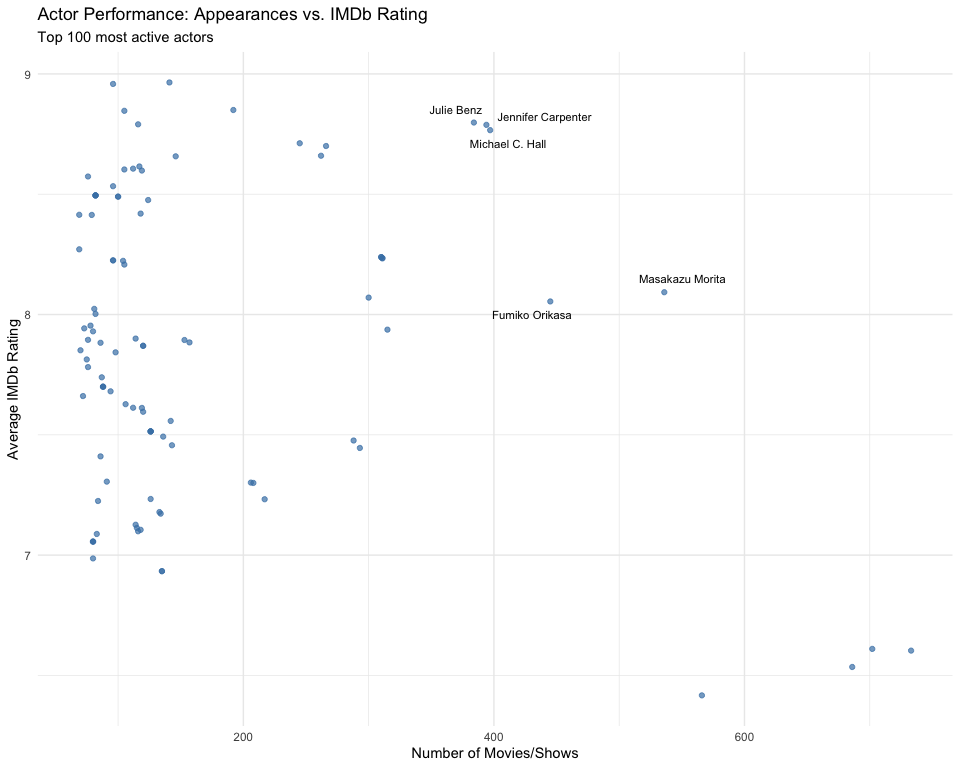
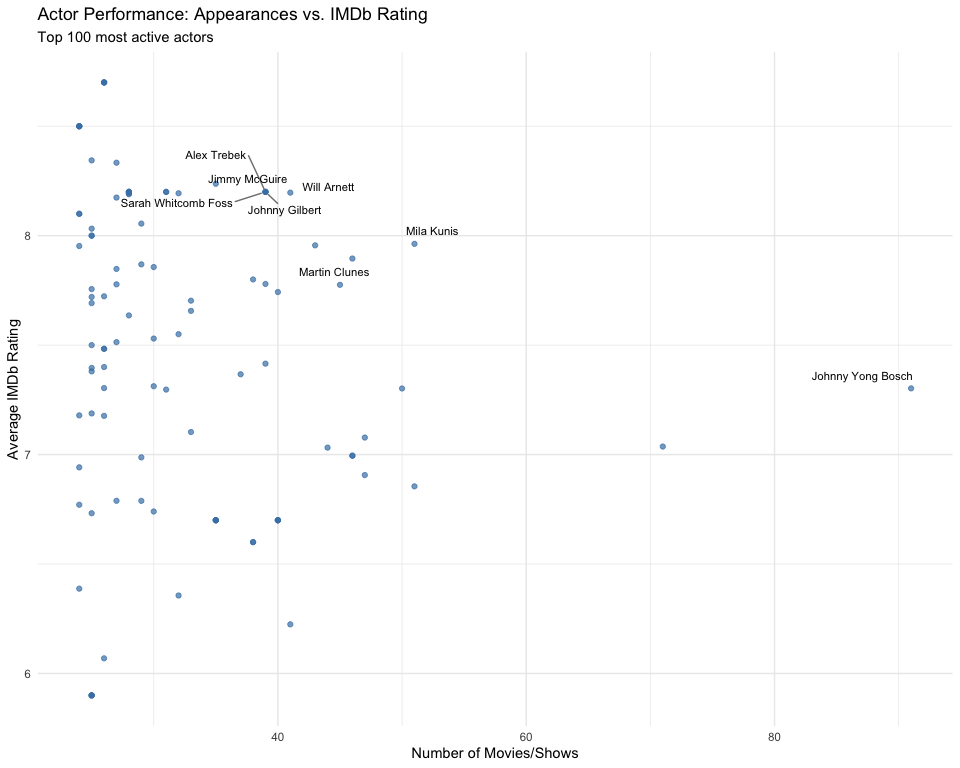
Removed redundant entries and commented on new findings.

diff --git a/Projects/Niclas38/hd25viet.md b/Projects/Niclas38/hd25viet.md
@@ -1,35 +1,10 @@
 # Load Packages
 
-    library(tidyverse)
-
-    ## ── Attaching core tidyverse packages ──────────────────────── tidyverse 2.0.0 ──
-    ## ✔ dplyr     1.1.4     ✔ readr     2.1.5
-    ## ✔ forcats   1.0.0     ✔ stringr   1.5.1
-    ## ✔ ggplot2   3.5.1     ✔ tibble    3.2.1
-    ## ✔ lubridate 1.9.4     ✔ tidyr     1.3.1
-    ## ✔ purrr     1.0.4     
-    ## ── Conflicts ────────────────────────────────────────── tidyverse_conflicts() ──
-    ## ✖ dplyr::filter() masks stats::filter()
-    ## ✖ dplyr::lag()    masks stats::lag()
-    ## ℹ Use the conflicted package (<http://conflicted.r-lib.org/>) to force all conflicts to become errors
-
-    library(readxl)
-    library(purrr)
-    library(ggrepel)
-
 # Load Data and Data Wrangling
 
-    data_raw <- read_csv("movies.csv")
+    setwd( this.path::this.dir() )
 
-    ## Rows: 9999 Columns: 9
-    ## ── Column specification ────────────────────────────────────────────────────────
-    ## Delimiter: ","
-    ## chr (6): MOVIES, YEAR, GENRE, ONE-LINE, STARS, Gross
-    ## dbl (2): RATING, RunTime
-    ## num (1): VOTES
-    ## 
-    ## ℹ Use `spec()` to retrieve the full column specification for this data.
-    ## ℹ Specify the column types or set `show_col_types = FALSE` to quiet this message.
+    data_raw <- read_csv("movies.csv")
 
     # Data Wrangling
     data_cleaned <- data_raw %>% 
@@ -38,6 +13,7 @@
         across(where(is.character), ~ str_squish(str_remove_all(., "^\\n"))),
 
         # Clean year column
+        MOVIES = as.factor(MOVIES),
         YEAR = str_squish(str_remove_all(YEAR, "[()]")),
 
         # Extract start and end years
@@ -52,10 +28,6 @@
         # Expand years as list-column (Start:End)
         Year_List = map2(Start, End, ~ if (!is.na(.x)) .x:.y else NA_integer_),
 
-        # Clean and split STARS and GENRE into list-columns
-        STARS = str_split(str_extract(STARS, "(?<=Stars: ).*"), ",\\s*"),
-        GENRE = str_split(as.factor(GENRE), ",\\s*"),
-
         # Parse votes and gross
         VOTES = as.numeric(VOTES),
         Gross = parse_number(Gross)
@@ -64,38 +36,21 @@
       select(-YEAR, -Start, -End) %>% 
       rename(YEAR = Year_List) %>% 
       select(MOVIES, GENRE, RATING, STARS, VOTES, Gross,YEAR) %>% 
-      glimpse()
-
-    ## Rows: 25,827
-    ## Columns: 7
-    ## $ MOVIES <chr> "Blood Red Sky", "Masters of the Universe: Revelation", "Master…
-    ## $ GENRE  <list> <"Action", "Horror", "Thriller">, <"Animation", "Action", "Adv…
-    ## $ RATING <dbl> 6.1, 5.0, 5.0, 8.2, 8.2, 8.2, 8.2, 8.2, 8.2, 8.2, 8.2, 8.2, 8.2…
-    ## $ STARS  <list> <"Peri Baumeister", "Carl Anton Koch", "Alexander Scheer", "Ka…
-    ## $ VOTES  <dbl> 21062, 17870, 17870, 885805, 885805, 885805, 885805, 885805, 88…
-    ## $ Gross  <dbl> NA, NA, NA, NA, NA, NA, NA, NA, NA, NA, NA, NA, NA, NA, NA, NA,…
-    ## $ YEAR   <int> 2021, 2021, 2022, 2010, 2011, 2012, 2013, 2014, 2015, 2016, 201…
-
-    # Consistency Check
-    data_cleaned %>% 
-      filter(MOVIES=="The Walking Dead")
-
-    ## # A tibble: 13 × 7
-    ##    MOVIES           GENRE     RATING STARS      VOTES Gross  YEAR
-    ##    <chr>            <list>     <dbl> <list>     <dbl> <dbl> <int>
-    ##  1 The Walking Dead <chr [3]>    8.2 <chr [4]> 885805    NA  2010
-    ##  2 The Walking Dead <chr [3]>    8.2 <chr [4]> 885805    NA  2011
-    ##  3 The Walking Dead <chr [3]>    8.2 <chr [4]> 885805    NA  2012
-    ##  4 The Walking Dead <chr [3]>    8.2 <chr [4]> 885805    NA  2013
-    ##  5 The Walking Dead <chr [3]>    8.2 <chr [4]> 885805    NA  2014
-    ##  6 The Walking Dead <chr [3]>    8.2 <chr [4]> 885805    NA  2015
-    ##  7 The Walking Dead <chr [3]>    8.2 <chr [4]> 885805    NA  2016
-    ##  8 The Walking Dead <chr [3]>    8.2 <chr [4]> 885805    NA  2017
-    ##  9 The Walking Dead <chr [3]>    8.2 <chr [4]> 885805    NA  2018
-    ## 10 The Walking Dead <chr [3]>    8.2 <chr [4]> 885805    NA  2019
-    ## 11 The Walking Dead <chr [3]>    8.2 <chr [4]> 885805    NA  2020
-    ## 12 The Walking Dead <chr [3]>    8.2 <chr [4]> 885805    NA  2021
-    ## 13 The Walking Dead <chr [3]>    8.2 <chr [4]> 885805    NA  2022
+      group_by(MOVIES, YEAR) %>%
+      # Merge duplicated movie entries
+      summarize(
+        RATING = mean(RATING, na.rm = TRUE),
+        VOTES = sum(VOTES, na.rm = TRUE),
+        GENRE = first(GENRE),           # assuming Genre is same for all
+        STARS = first(STARS),           # same logic
+        Gross = sum(Gross, na.rm = TRUE), # often NA, but sum in case
+        .groups = "drop"
+      ) %>%
+      mutate(
+            # Clean and split STARS and GENRE into list-columns
+        STARS = str_split(str_extract(STARS, "(?<=Stars: ).*"), ",\\s*"),
+        GENRE = str_split(as.factor(GENRE), ",\\s*"),
+      )
 
 # Visualization
 
@@ -179,26 +134,26 @@ about trends then the suggested plot containing all genres.
     ## # A tibble: 20 × 3
     ##    STARS                    appearances avg_rating
     ##    <chr>                          <int>      <dbl>
-    ##  1 Dietrich Hollinderbäumer          12       9.43
-    ##  2 Ian James Corlett                 15       9.3 
-    ##  3 Louis Hofmann                     44       9.24
-    ##  4 Maja Schöne                       12       9.23
-    ##  5 Andreas Pietschmann               16       9.2 
-    ##  6 Lisa Vicari                       33       9.2 
-    ##  7 Amybeth McNulty                   30       9.18
-    ##  8 Geraldine James                   30       9.18
-    ##  9 R.H. Thomson                      30       9.18
-    ## 10 Cavan Clerkin                     16       9.15
-    ## 11 Ahmet Mümtaz Taylan               11       9.1 
-    ## 12 Finn Elliot                       32       9.05
-    ## 13 Ali Atay                          12       9.04
-    ## 14 Rena Anakwe                       25       9.04
-    ## 15 Alexander Dreymon                 56       9.01
-    ## 16 Emily Cox                         16       9   
-    ## 17 Ewan Mitchell                     16       9   
-    ## 18 Jakob Diehl                       12       9   
-    ## 19 Mark Rowley                       24       9   
-    ## 20 Arnas Fedaravicius                32       8.98
+    ##  1 Ahmet Mümtaz Taylan               11       9.1 
+    ##  2 Ali Atay                          12       9.04
+    ##  3 Serkan Keskin                     12       8.96
+    ##  4 Courteney Cox                     11       8.9 
+    ##  5 Beatrice Robertson-Jones          12       8.8 
+    ##  6 Curt Morgan                       11       8.8 
+    ##  7 Daniel Lapaine                    12       8.8 
+    ##  8 Ford Kiernan                      18       8.8 
+    ##  9 Gavin Mitchell                    18       8.8 
+    ## 10 Greg Hemphill                     18       8.8 
+    ## 11 Mark Landvik                      11       8.8 
+    ## 12 Paul Riley                        18       8.8 
+    ## 13 Scotty Lago                       11       8.8 
+    ## 14 Travis Rice                       11       8.8 
+    ## 15 Martin Freeman                    19       8.79
+    ## 16 Lisa Kudrow                       12       8.72
+    ## 17 Adrian Dunbar                     11       8.7 
+    ## 18 Isaac Hayes                       26       8.7 
+    ## 19 Luca De Castro                    13       8.7 
+    ## 20 Maira Kesten                      13       8.7
 
     top_actors <- actor_stats %>%
       slice_max(appearances, n = 100)
@@ -208,9 +163,6 @@ about trends then the suggested plot containing all genres.
     top5 <- top_actors %>%
       mutate(score = avg_rating * log1p(appearances)) %>%
       slice_max(score, n = 5)
-
-Funnily, the guy from the ZDF heute-Show representing “Ulrich von
-Heesen” has the highest rating if restricted to &gt;10 appearences.
 
     ggplot(top_actors, aes(x = appearances, y = avg_rating)) +
       geom_point(color = "steelblue", alpha = 0.7) +
@@ -231,5 +183,11 @@ Heesen” has the highest rating if restricted to &gt;10 appearences.
       ) +
       theme_minimal()
 
-![](hd25viet_files/figure-markdown_strict/Plot%20top%20actors-1.png) The
-upper cluster are all “Dexter” actors.
+![](hd25viet_files/figure-markdown_strict/Plot%20top%20actors-1.png)
+
+Note: In the previous version, several duplicated entries were present
+coming from redundant entries at IMDB. They are now merged. As a
+consistency check the threshold of 95 appearances seems to be reasonable
+for one actor. In particular, note that [Johnny Yong
+Bosch](https://en.wikipedia.org/wiki/Johnny_Yong_Bosch) works also as a
+voice actor.
